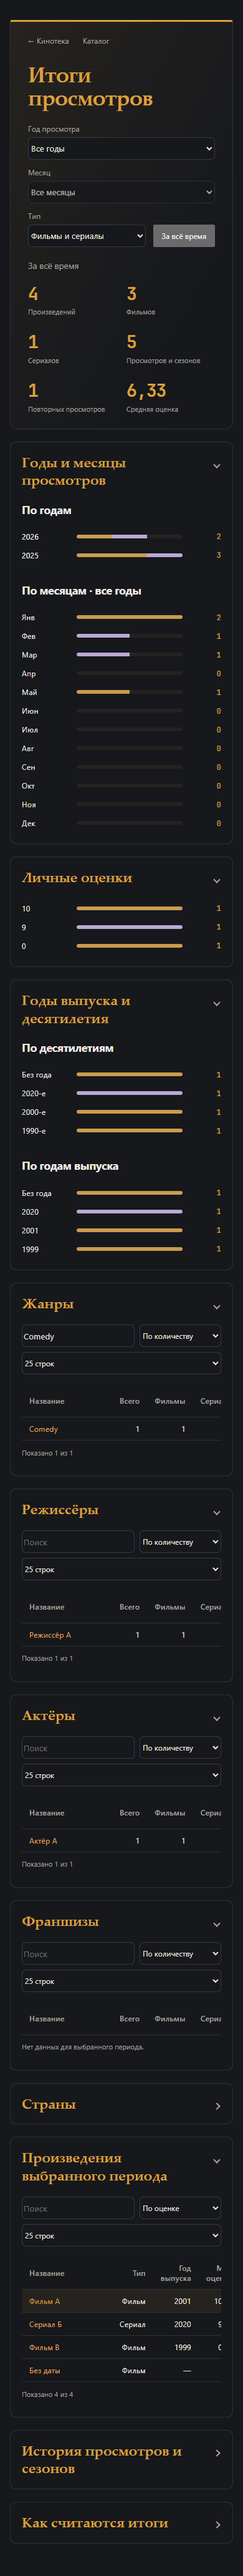
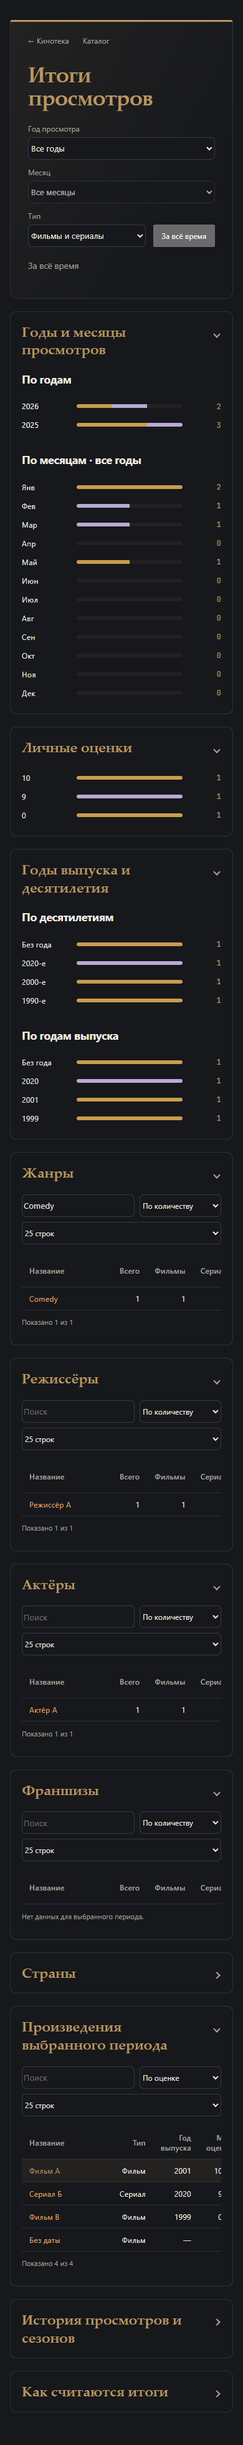
vault backup: 2026-10-10 01:31:13

diff --git a/Кино/_system/kino_statistics.js b/Кино/_system/kino_statistics.js
@@ -146,11 +146,6 @@ async function render({ dv, app }) {
         const typeSelect=select('Тип',[['','Фильмы и сериалы'],['movies','Фильмы'],['serials','Сериалы']]);
         const reset=el(controls,'button','','За всё время');reset.type='button';
         const period=el(head,'p','kino-report-period');period.setAttribute('role','status');
-        const metrics=el(head,'div','kino-report-metrics');
-        const metricNodes=[];
-        for(const [key,label]of [['works','Произведений'],['movies','Фильмов'],['serials','Сериалов'],['events','Просмотров и сезонов'],['repeats','Повторных просмотров'],['average','Средняя оценка']]) {
-            const box=el(metrics,'div','kino-home-stat');const n=el(box,'strong');n.dataset.metric=key;el(box,'span','',label);metricNodes.push([key,n]);
-        }
         function section(title,id,open=true) {
             const box=el(root,'details','kino-report-section');box.dataset.section=id;box.open=state.folds[id]??open;
             const summary=el(box,'summary');el(summary,'span','',title);el(summary,'span','kino-home-fold-chevron').setAttribute('aria-hidden','true');
@@ -212,7 +207,6 @@ async function render({ dv, app }) {
         listen(monthsChart,'click',e=>{const button=e.target.closest('button[data-value]');if(button&&state.year)setPeriod(state.year,state.month===button.dataset.value?'':button.dataset.value);});
         function draw(){if(disposed)return;const model=build(data,state);yearSelect.value=state.year;monthSelect.value=state.month;monthSelect.disabled=!state.year;typeSelect.value=state.type;
             period.textContent=(state.year?(state.month?MONTHS[+state.month-1]+' · ':'')+state.year:'За всё время')+(state.type?' · '+(state.type==='movies'?'Фильмы':'Сериалы'):'');
-            const totals={works:model.records.length,movies:model.types[0],serials:model.types[1],events:model.events.length,repeats:model.repeats,average:fmt(model.average)};for(const [key,node]of metricNodes)node.textContent=totals[key];
             chart(yearsChart,model.years.map(([year,events])=>({label:year,value:year,selected:state.year===year,types:split(events.map(e=>e.record))})),true);
             monthsHeading.textContent='По месяцам · '+(state.year||'все годы');chart(monthsChart,model.months.map(([label,events],i)=>({label:label.slice(0,3),value:String(i+1).padStart(2,'0'),selected:state.month===String(i+1).padStart(2,'0'),types:split(events.map(e=>e.record))})),Boolean(state.year));
             chart(ratingChart,model.ratings.map(([score,rows])=>({label:String(score).replace('.',','),types:split(rows)})));

diff --git a/Кино/_system/kino-statistics.css b/Кино/_system/kino-statistics.css
@@ -7,7 +7,6 @@
 .kino-home-ui.kino-report button { min-height: 36px; }
 .kino-home-ui.kino-report .kino-report-controls>button { align-self: end; font-size: .75em; }
 .kino-home-ui.kino-report .kino-report-period { margin: 20px 0; color: var(--text-muted); font-size: .85em; }
-.kino-home-ui.kino-report .kino-report-metrics { display: grid; grid-template-columns: repeat(3,minmax(0,1fr)); gap: 24px 16px; }
 .kino-home-ui.kino-report>.kino-home-chart-legend { margin: 20px 0; }
 .kino-home-ui.kino-report .kino-report-section { margin: 20px 0; padding: 22px; border: 1px solid var(--home-line); border-radius: 10px; background: var(--background-primary); min-width: 0; }
 .kino-home-ui.kino-report .kino-report-section>summary { display: flex; justify-content: space-between; align-items: baseline; gap: 14px; list-style: none; font: 700 24px/1.3 var(--home-serif); color: var(--home-heading-color); }
@@ -35,7 +34,6 @@
 .kino-home-ui.kino-report .kino-report-update { color: var(--text-error); }
 @container kino-report (max-width: 650px) {
     .kino-home-ui.kino-report .kino-report-grid { grid-template-columns: minmax(0,1fr); }
-    .kino-home-ui.kino-report .kino-report-metrics { grid-template-columns: repeat(2,minmax(0,1fr)); }
     .kino-home-ui.kino-report .kino-report-section { padding: 18px; }
     .kino-home-ui.kino-report .kino-report-section>summary { font-size: 22px; }
 }

diff --git a/Кино/_system/Редизайн — прогресс.md b/Кино/_system/Редизайн — прогресс.md
@@ -5,6 +5,11 @@ obsidianUIMode: preview
 
 Обновлено: 09.10.2026. **Главная кинотеки по образцу Книг завершена.** Основной редизайн, компактные строки, шапка и выбор года тоже завершены; массовые миграции повторно не выполнять. При «продолжай» сначала прочитать этот файл и актуальный запрос.
 
+## Удалены сводные счётчики из итогов — 10.10.2026
+
+- **Запрос завершён:** полностью удалён блок шести счётчиков страницы «Итоги просмотров»: произведения, фильмы, сериалы, просмотры/сезоны, повторы и средняя оценка. Удалены создание DOM, обновление значений и отдельные стили сетки. Счётчики главной не менялись.
+- Диаграммы, таблицы, фильтры периода и исходные данные сохранены. Существующие браузерные проверки теперь проверяют отсутствие счётчиков и работу фильтров/обновления по таблице произведений.
+
 ## Отмена снижения на 95%, вместо него −25% — 10.10.2026
 
 - **Запрос завершён:** отменено предыдущее снижение насыщенности текста на 95%. От восстановленного золотого #c79b51 насыщенность снижена на 25% с сохранением оттенка и светлоты HSL: новый цвет #b89760. Главная и подробная статистика используют общий цвет. Шкалы не изменены; проверка цвета обновлена.

diff --git a/Кино/_system/Жанр.md b/Кино/_system/Жанр.md
@@ -1,6 +1,6 @@
 ---
 obsidianUIMode: preview
-Выбрано: Комедия
+Выбрано: Анимация
 cssclasses:
   - kino-page
   - kino-entity
